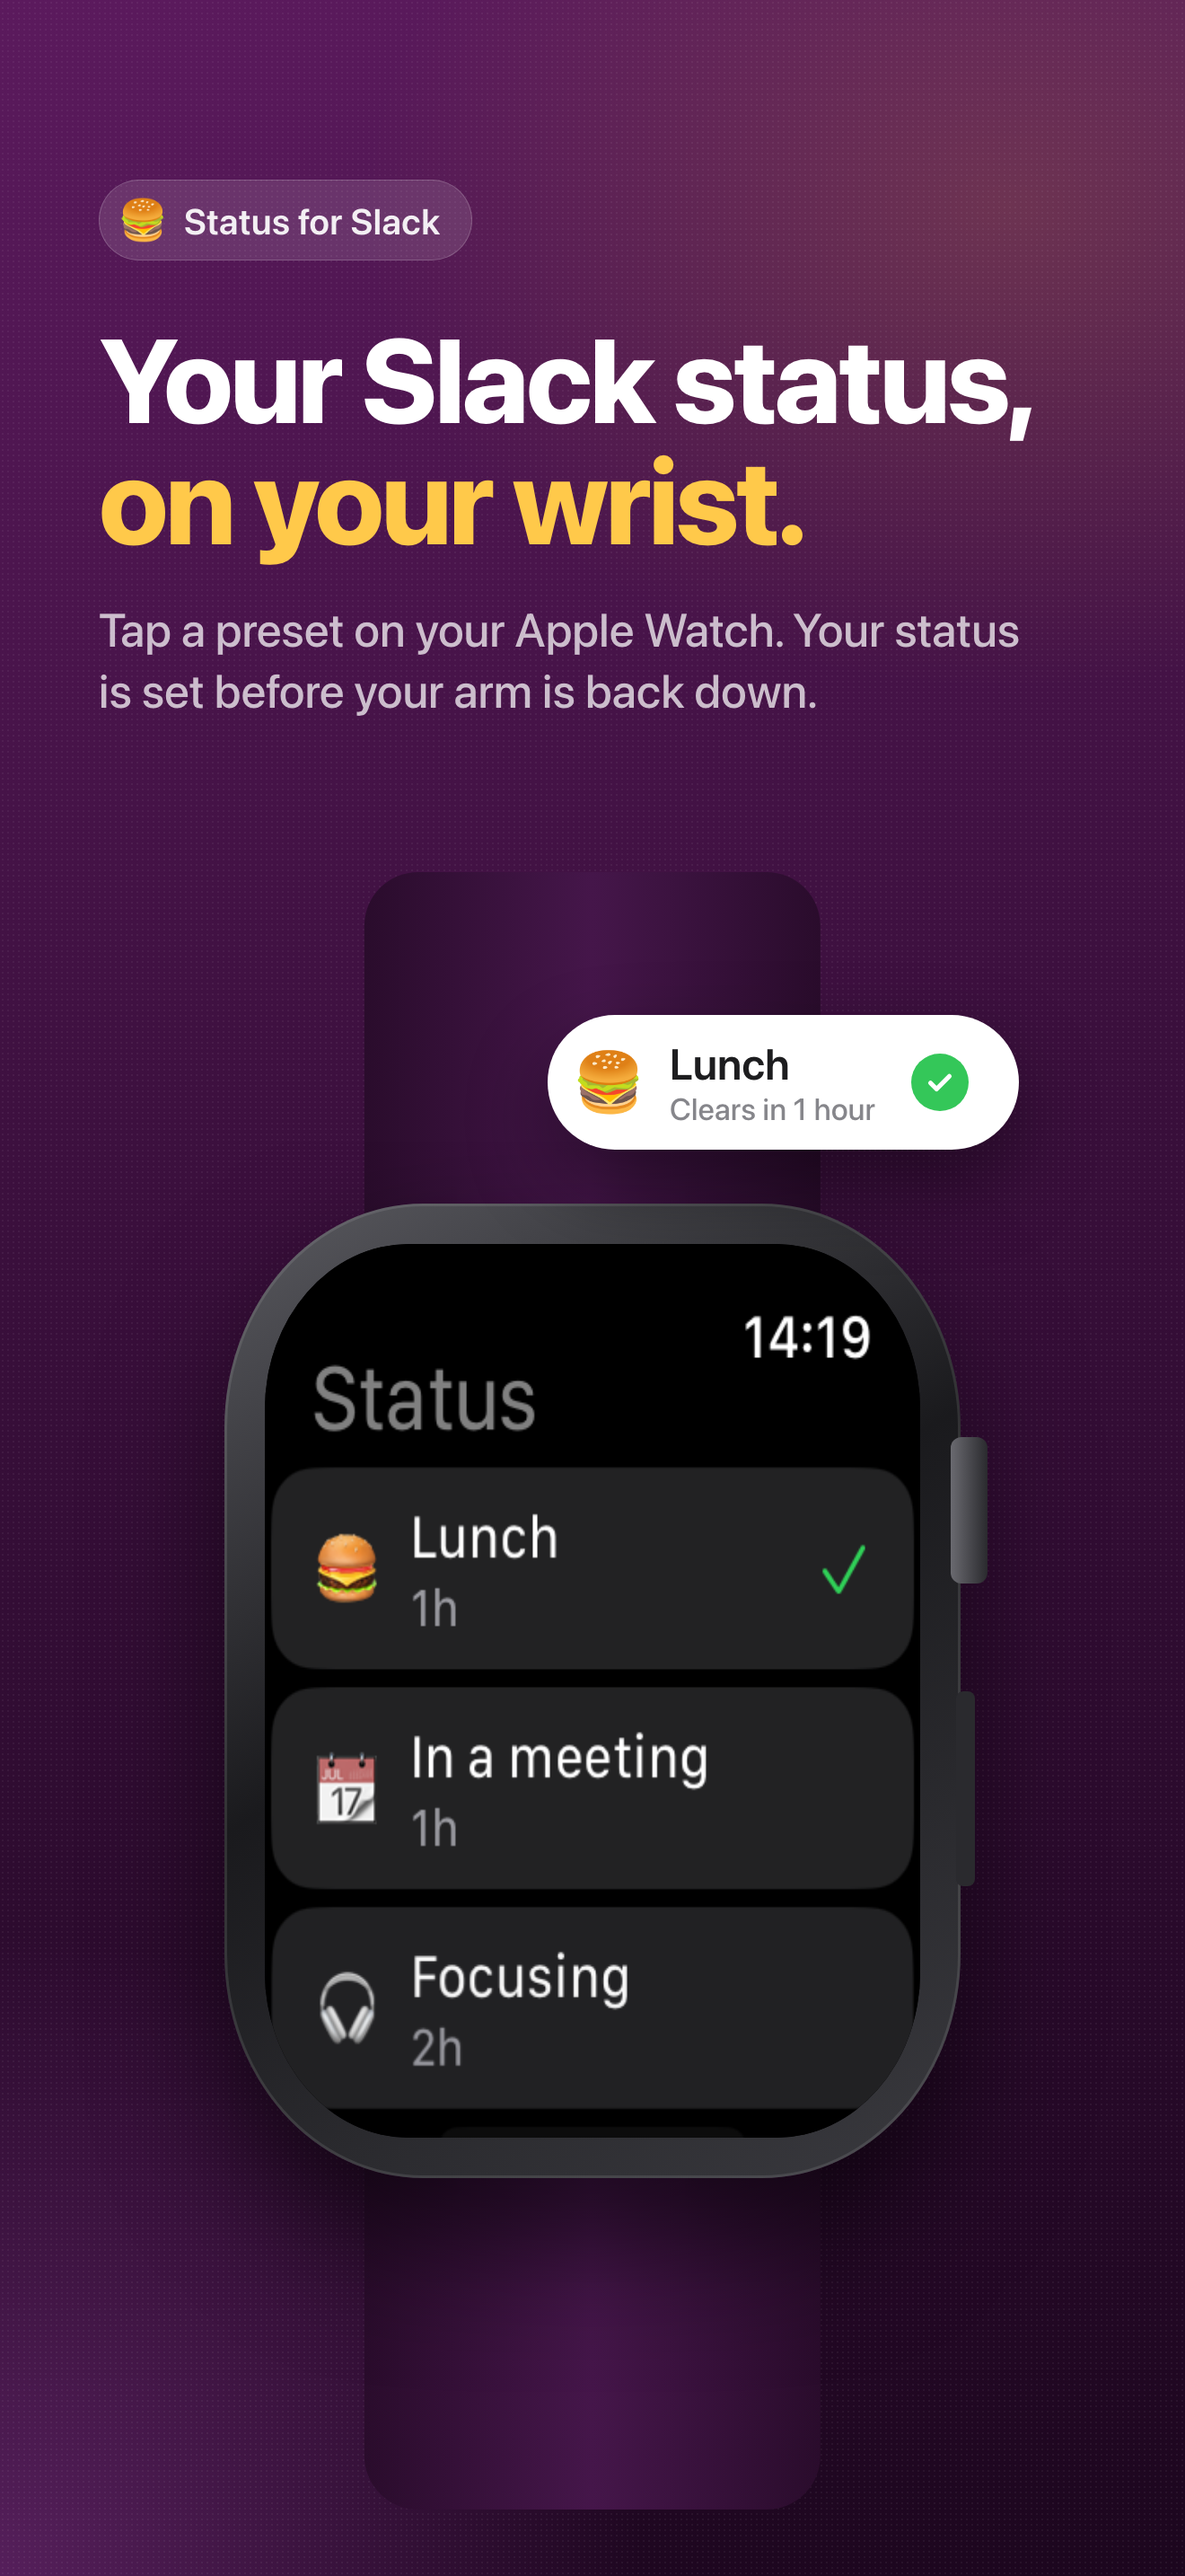
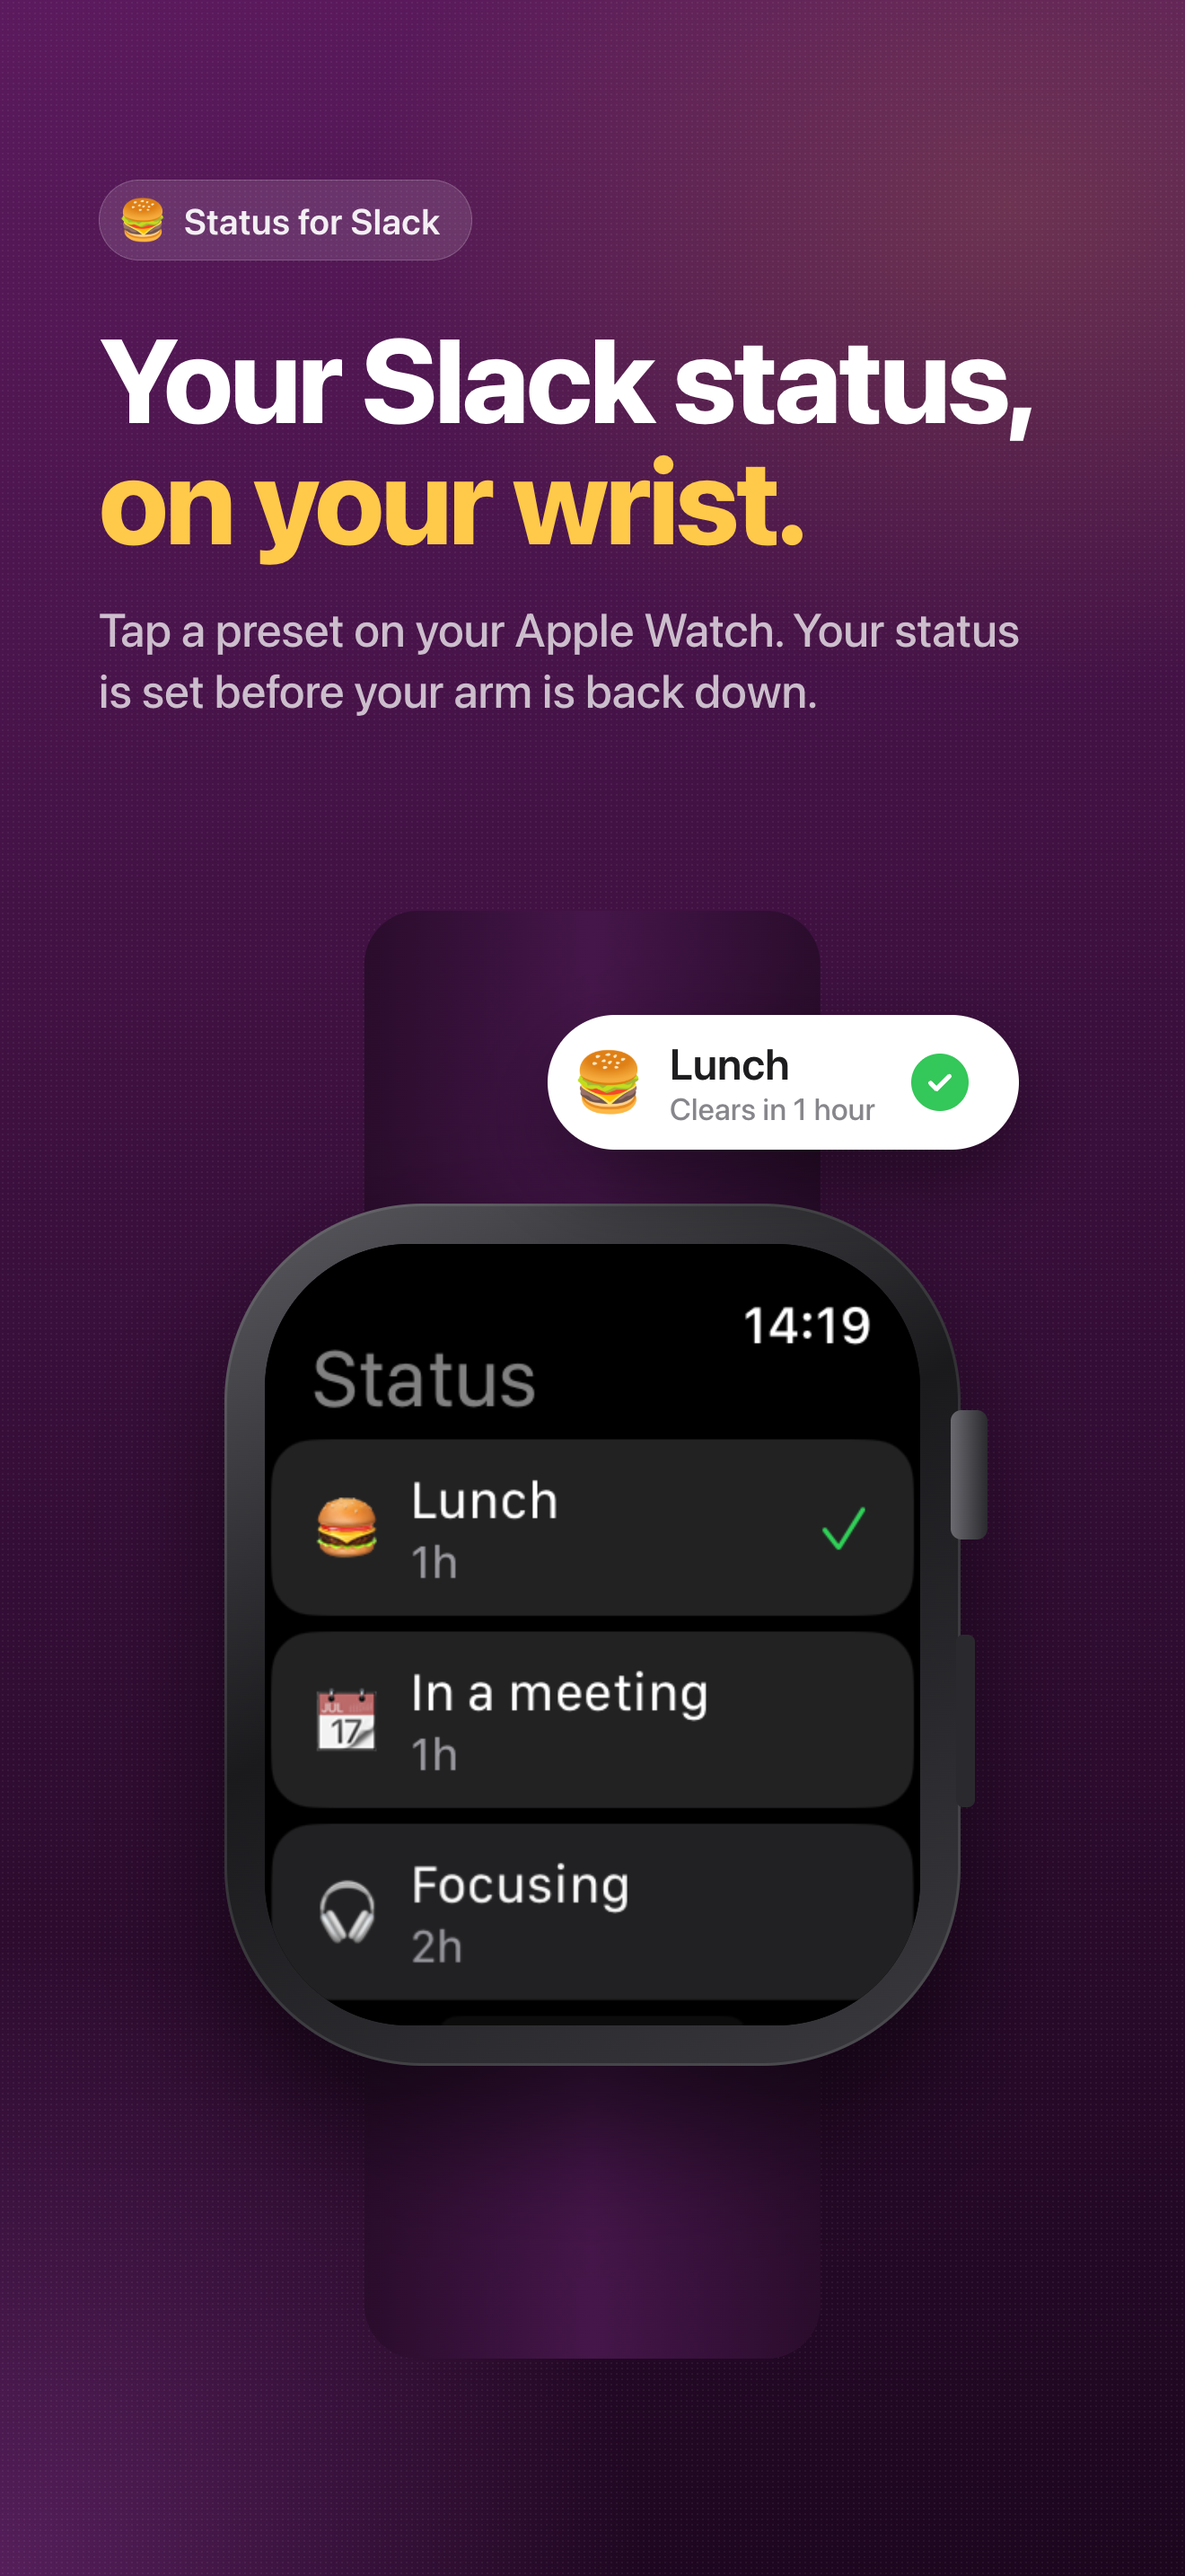
Size the watch case to the screen capture so it isn't stretched

diff --git a/AppStore/design/04-siri.html b/AppStore/design/04-siri.html
@@ -5,7 +5,7 @@
   <div style="align-self:flex-start;background:rgba(255,255,255,.14);border:1px solid rgba(255,255,255,.18);border-radius:64px 64px 64px 18px;padding:50px 64px;font-size:58px;font-weight:500;display:flex;align-items:center;gap:30px"><img src="burger.png" style="width:84px;height:84px">Slack status set to Lunch.</div>
   <div style="align-self:flex-end;background:linear-gradient(135deg,#0A84FF,#5E5CE6);border-radius:64px 64px 18px 64px;padding:50px 64px;font-size:64px;font-weight:600;box-shadow:0 40px 90px rgba(0,0,0,.35)">“Clear Status”</div>
 </div>
-<div class="watch" style="left:310px;top:2160px;width:700px;height:873px">
+<div class="watch" style="left:310px;top:2160px;width:700px;height:820px">
   <div class="band top"></div><div class="band bottom"></div>
   <div class="case"><div class="screen"><img src="../raw/watch-presets.png"></div></div>
   <div class="crown"></div><div class="button"></div></div></body>

diff --git a/AppStore/design/01-hero.html b/AppStore/design/01-hero.html
@@ -1,6 +1,6 @@
 <!doctype html><meta charset="utf-8"><link rel="stylesheet" href="style.css"><body><div class="grain"></div><div class="copy" style="top:200px"><div class="eyebrow"><img src="burger.png">Status for Slack</div><h1>Your Slack status,<br><em>on your wrist.</em></h1>
 <p class="sub">Tap a preset on your Apple Watch. Your status is set before your arm is back down.</p></div>
-<div class="watch" style="left:250px;top:1340px;width:820px;height:1085px">
+<div class="watch" style="left:250px;top:1340px;width:820px;height:960px">
   <div class="band top"></div><div class="band bottom"></div>
   <div class="case"><div class="screen"><img src="../raw/watch-presets.png"></div></div>
   <div class="crown"></div><div class="button"></div></div>

diff --git a/AppStore/design/search-results.html b/AppStore/design/search-results.html
@@ -22,7 +22,7 @@
   <div class="eyebrow"><img src="burger.png">Status for Slack</div>
   <h1>Your Slack status,<br><em>on your wrist.</em></h1>
 </div>
-<div class="watch" style="left:2420px;top:640px;width:1060px;height:1404px">
+<div class="watch" style="left:2420px;top:640px;width:1060px;height:1241px">
   <div class="band top"></div><div class="band bottom"></div>
   <div class="case"><div class="screen"><img src="../raw/watch-presets.png"></div></div>
   <div class="crown"></div><div class="button"></div>

diff --git a/AppStore/design/header.html b/AppStore/design/header.html
@@ -23,7 +23,7 @@
   <h1>Your Slack status,<br><em>on your wrist.</em></h1>
   <p>One tap on your Apple Watch. Clears itself when you're done.</p>
 </div>
-<div class="watch" style="left:2420px;top:420px;width:760px;height:1006px">
+<div class="watch" style="left:2420px;top:420px;width:760px;height:890px">
   <div class="band top"></div><div class="band bottom"></div>
   <div class="case"><div class="screen"><img src="../raw/watch-presets.png"></div></div>
   <div class="crown"></div><div class="button"></div>
